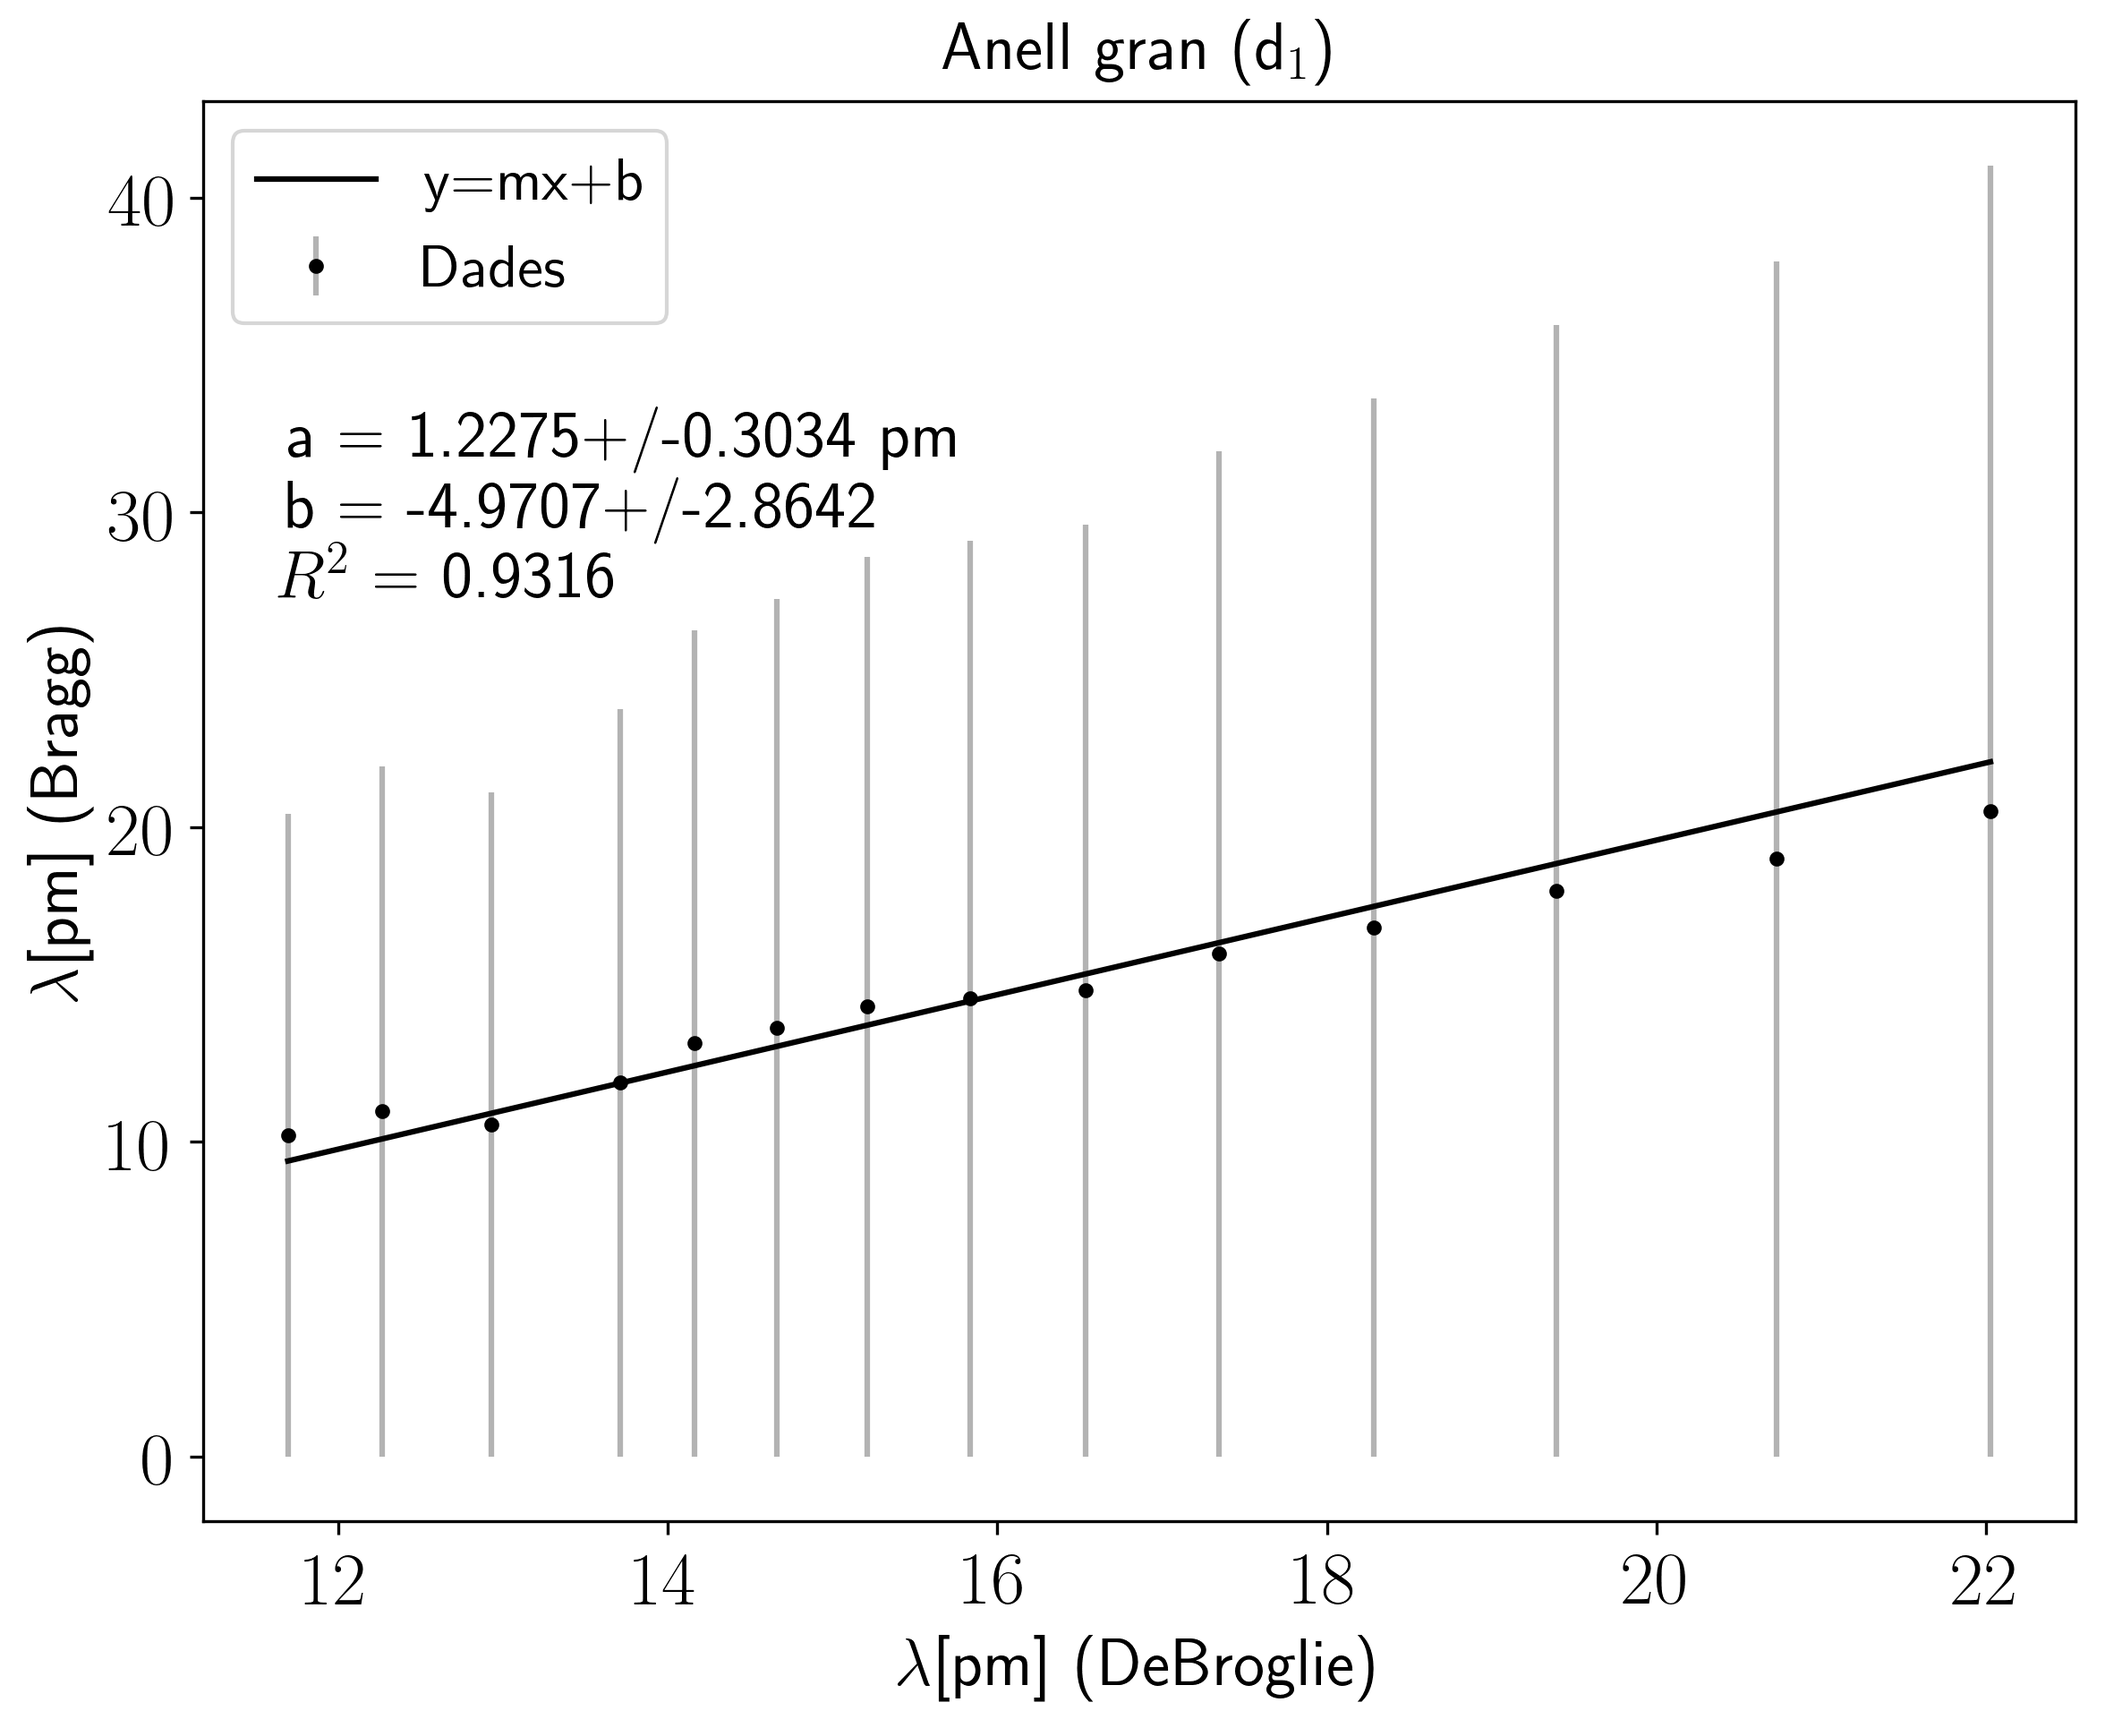
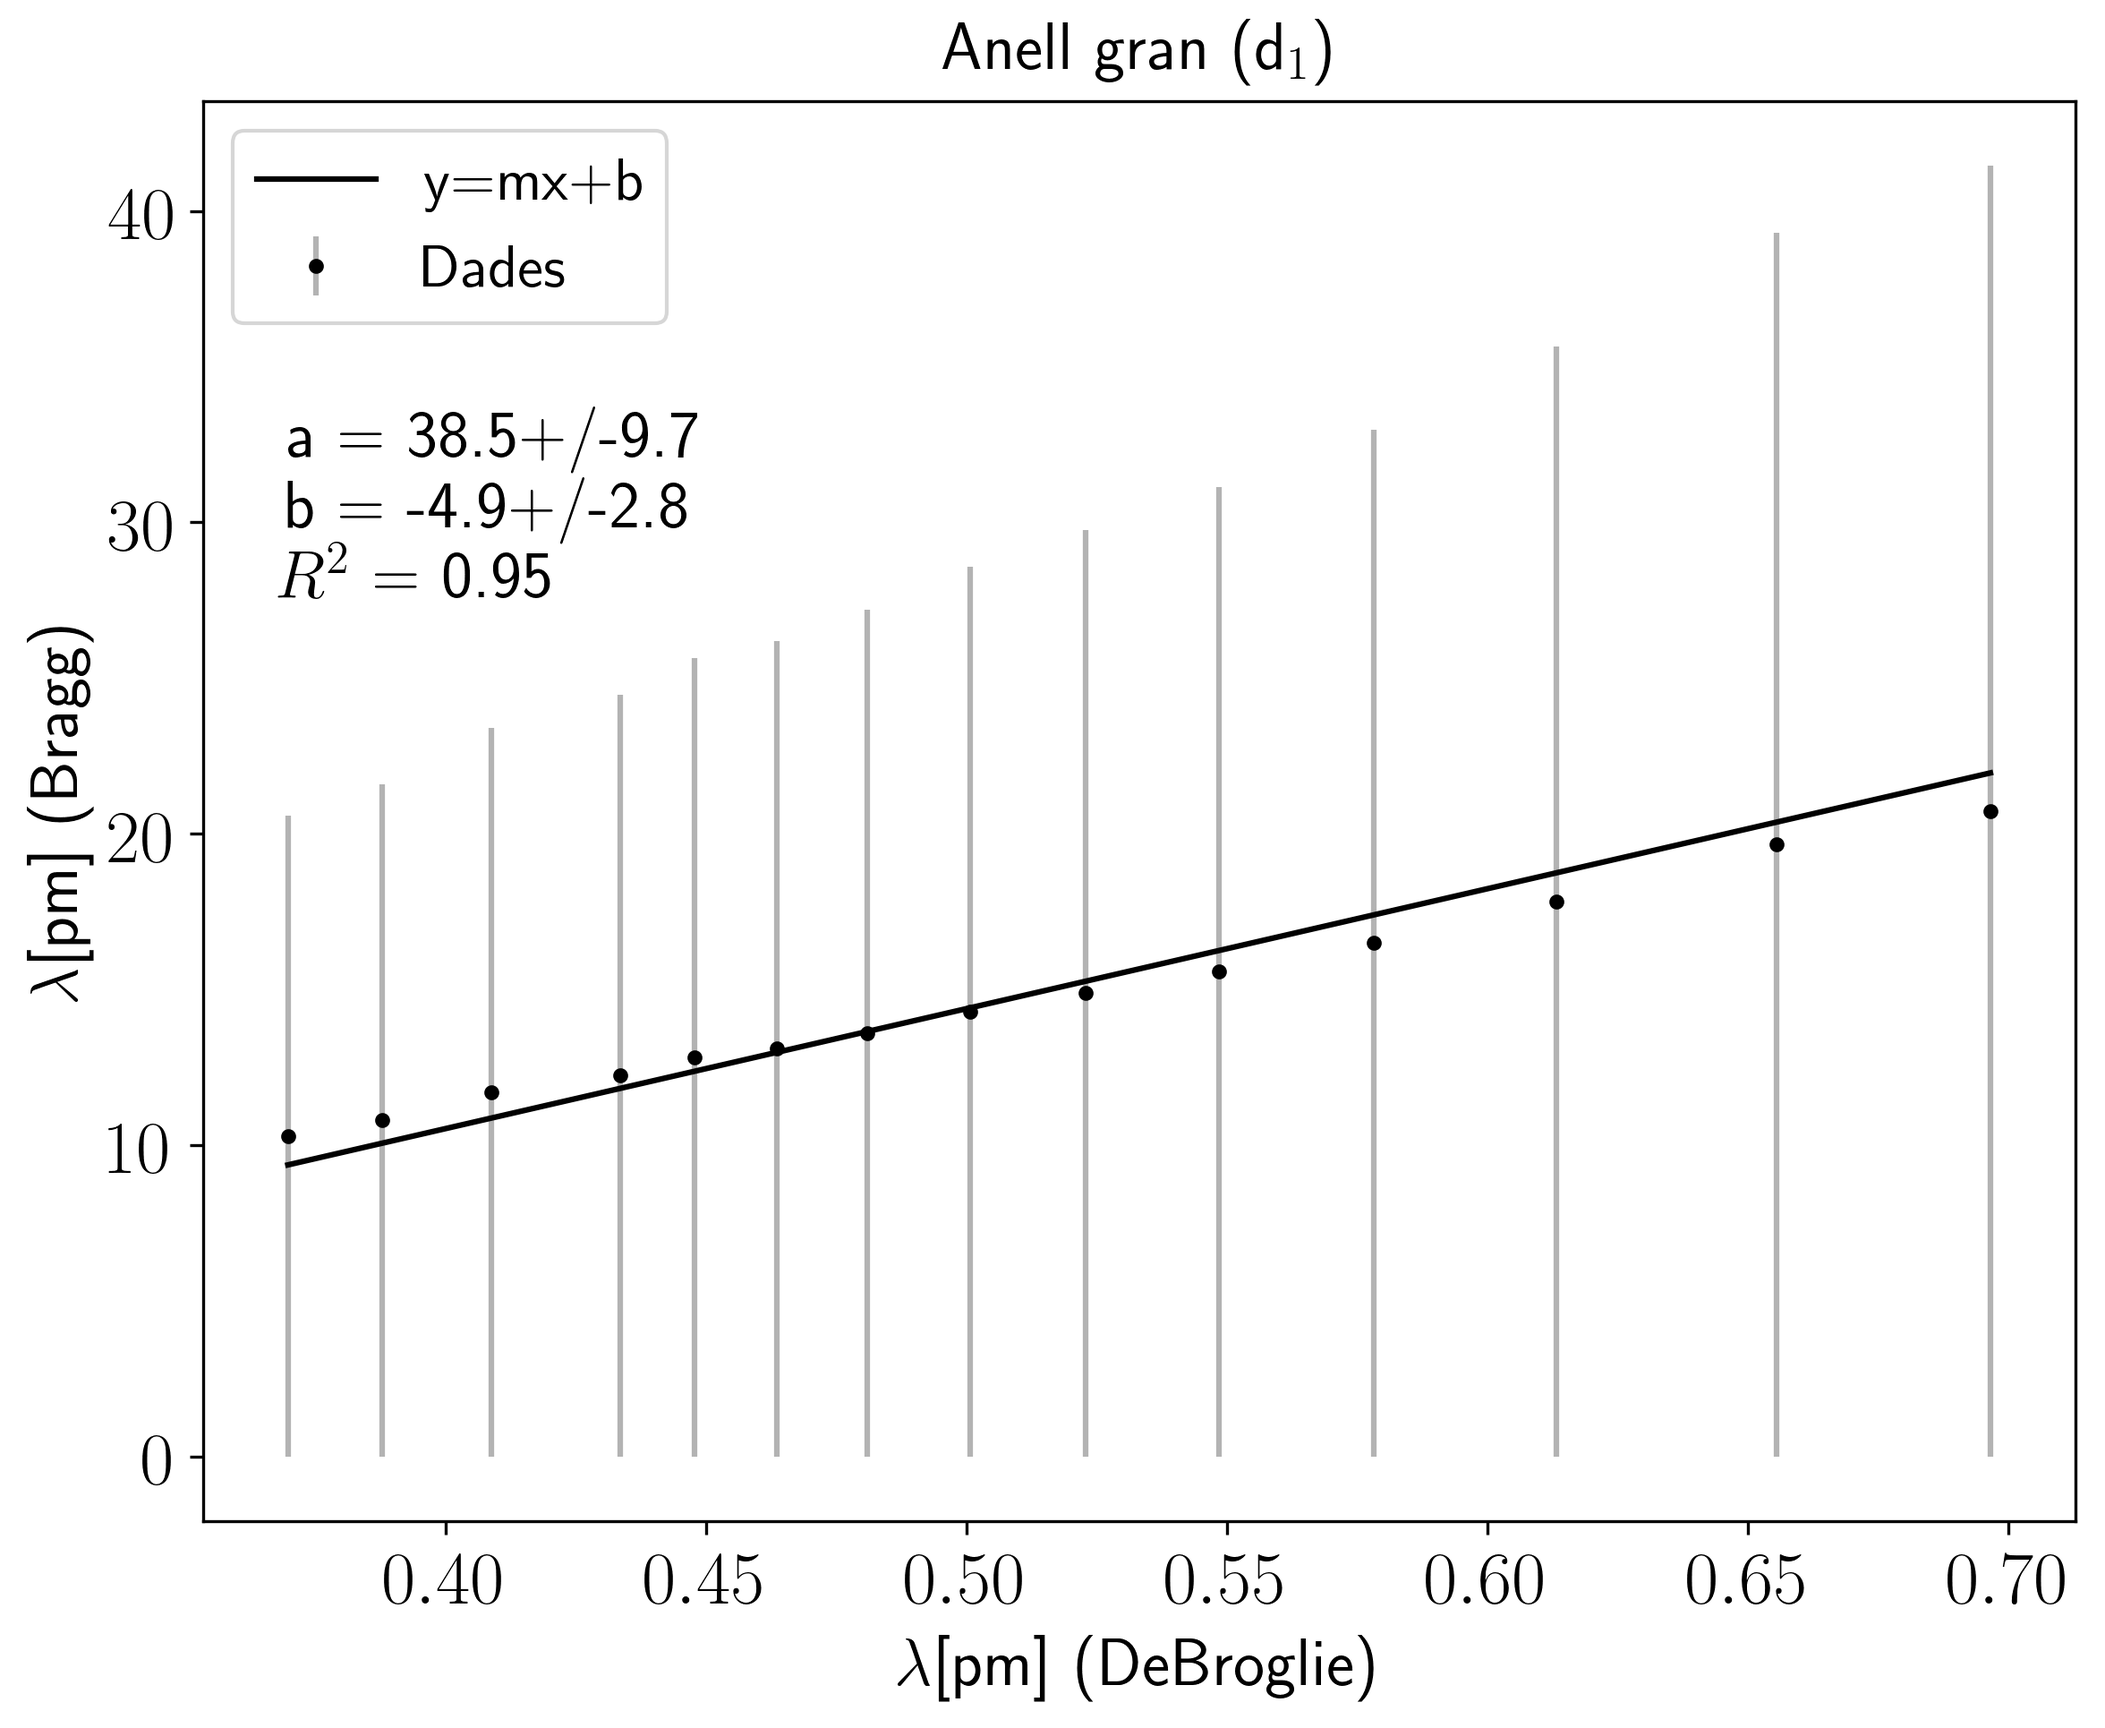
Update 29.04

diff --git a/practica8/relativista/p8_nestle_curvature.py b/practica8/relativista/p8_nestle_curvature.py
@@ -108,14 +108,6 @@ def nested_linear(x,y,yerr,b,title, npoints):
     ax.tick_params(axis='both', labelsize=20)
     plt.savefig(title+'_fit.png',dpi=300, bbox_inches='tight')
     plt.show()
-#    figure = corner.corner(res.samples, weights=res.weights, labels=['a', 'b'],
-#                        range=[0.99999, 0.99999],show_titles=True,
-#                        quantiles=(0.16, 0.84), 
-#                        levels=(1-np.exp(-0.5),),verbose=True,color='blue', 
-#                        bins=50, smooth=2,truths=p,
-#                        truth_color='green')
-#    plt.savefig(title+'_corner.png',dpi=300)
-#    plt.show() 
     return p, cov
 
 
@@ -197,20 +189,14 @@ def nestle_linear2(x, y, yerr, b, title, npoints):
     ax.tick_params(axis='both', labelsize=20)
     plt.savefig(title + 'lambda_nestle.png',dpi=300,bbox_inches='tight')
     plt.show()
-#    figure = corner.corner(res.samples, weights=res.weights, labels=['a', 'b'],
-#                        range=[0.99999, 0.99999],show_titles=True,
-#                        quantiles=(0.16, 0.84), 
-#                        levels=(1-np.exp(-0.5),),verbose=True,color='blue', 
-#                        bins=50, smooth=2,truths=p,
-#                        truth_color='green')
-#    plt.savefig(title + 'lambda_corner.png',dpi=300)
-#    plt.show() 
     return p, cov
 #%%
 # Plotea la longitud de onda de De Broglie vs de Bragg
 
 # E keV --> eV
 deBroglie = 1e12*sp.h/np.sqrt(2*sp.m_e*sp.e*E*1e3) # en pm
+deBroglie_rel = 1e12*sp.h/(np.sqrt((sp.e*E*1e3/sp.c)**2 + 2*sp.m_e*sp.e*E*1e3)) # en pm
+sp.c
 Bragg1 = 2*d1*sin(theta1) # en pm
 Bragg2 = 2*d2*sin(theta2) # en pm
 
@@ -222,5 +208,8 @@ for i in range(len(Bragg1)):
     braggnom2, braggs2 = np.append(braggnom2, Bragg2[i].n), np.append(braggs2, Bragg2[i].n)
        
     
-p1, cov1 = nestle_linear2(deBroglie, braggnom1, braggs1, np.array([10,-10]), 'Anell gran (d$_1$)',  npoints )
-p2, cov2 = nestle_linear2(deBroglie, braggnom2, braggs2, np.array([10,-10]), 'Anell petit (d$_2$)',  npoints )
+p1, cov1 = nestle_linear2(deBroglie, braggnom1, braggs1, np.array([100,-10]), 'Anell gran (d$_1$)',  npoints)
+p2, cov2 = nestle_linear2(deBroglie, braggnom2, braggs2, np.array([100,-10]), 'Anell petit (d$_2$)',  npoints)
+
+p1, cov1 = nestle_linear2(deBroglie_rel, braggnom1, braggs1, np.array([100,-10]), 'Anell gran (d$_1$)',  npoints)
+p2, cov2 = nestle_linear2(deBroglie_rel, braggnom2, braggs2, np.array([100,-10]), 'Anell petit (d$_2$)',  npoints)

diff --git a/practica8/p8_regressio.py b/practica8/p8_regressio.py
@@ -9,15 +9,15 @@ from uncertainties.umath import *
 # Lab performed on the 21st Feb. 2020 by I.Alsina and D.Gonzalez
 #%%
 # mesures dels diametres en cm
-diam1 = np.array([2.46,2.28,2.16,2.02,1.92,1.78,1.75,1.72,1.64,1.58,1.43,1.27,1.32,1.23])
-diam2 = np.array([4.58,4.35,3.96,3.67,3.47,3.32,3.19,3.04,2.93,2.87,2.74,2.62,2.42,2.31])
+diam2 = np.array([2.46,2.28,2.16,2.02,1.92,1.78,1.75,1.72,1.64,1.58,1.43,1.27,1.32,1.23])
+diam1 = np.array([4.58,4.35,3.96,3.67,3.47,3.32,3.19,3.04,2.93,2.87,2.74,2.62,2.42,2.31])
 ddiam = 0.05 #incertesa en les mesures de diametres en cm
 
 R = 6.5 #cm
-theta1 = (1/4)*np.arcsin(diam1/2*R)
-theta2 = (1/4)*np.arcsin(diam2/2*R)
-dtheta1 = (1/4)*1/np.sqrt(1-diam1/R)*ddiam/(2*R)
-dtheta2 = (1/4)*1/np.sqrt(1-diam2/R)*ddiam/(2*R)
+theta1 = (1/4)*np.arcsin(diam1/(2*R))
+theta2 = (1/4)*np.arcsin(diam2/(2*R))
+dtheta1 = (1/4)*1/np.sqrt(1 - diam1/(2*R))*ddiam/(2*R)
+dtheta2 = (1/4)*1/np.sqrt(1 - diam2/(2*R))*ddiam/(2*R)
 
 E = np.array([3.1,3.5,4.0,4.5,5.0,5.5,6.0,6.5,7.0,7.5,8.0,9.0,10.,11.]) #keV
 hc = 1.24e-6 # ev*m
